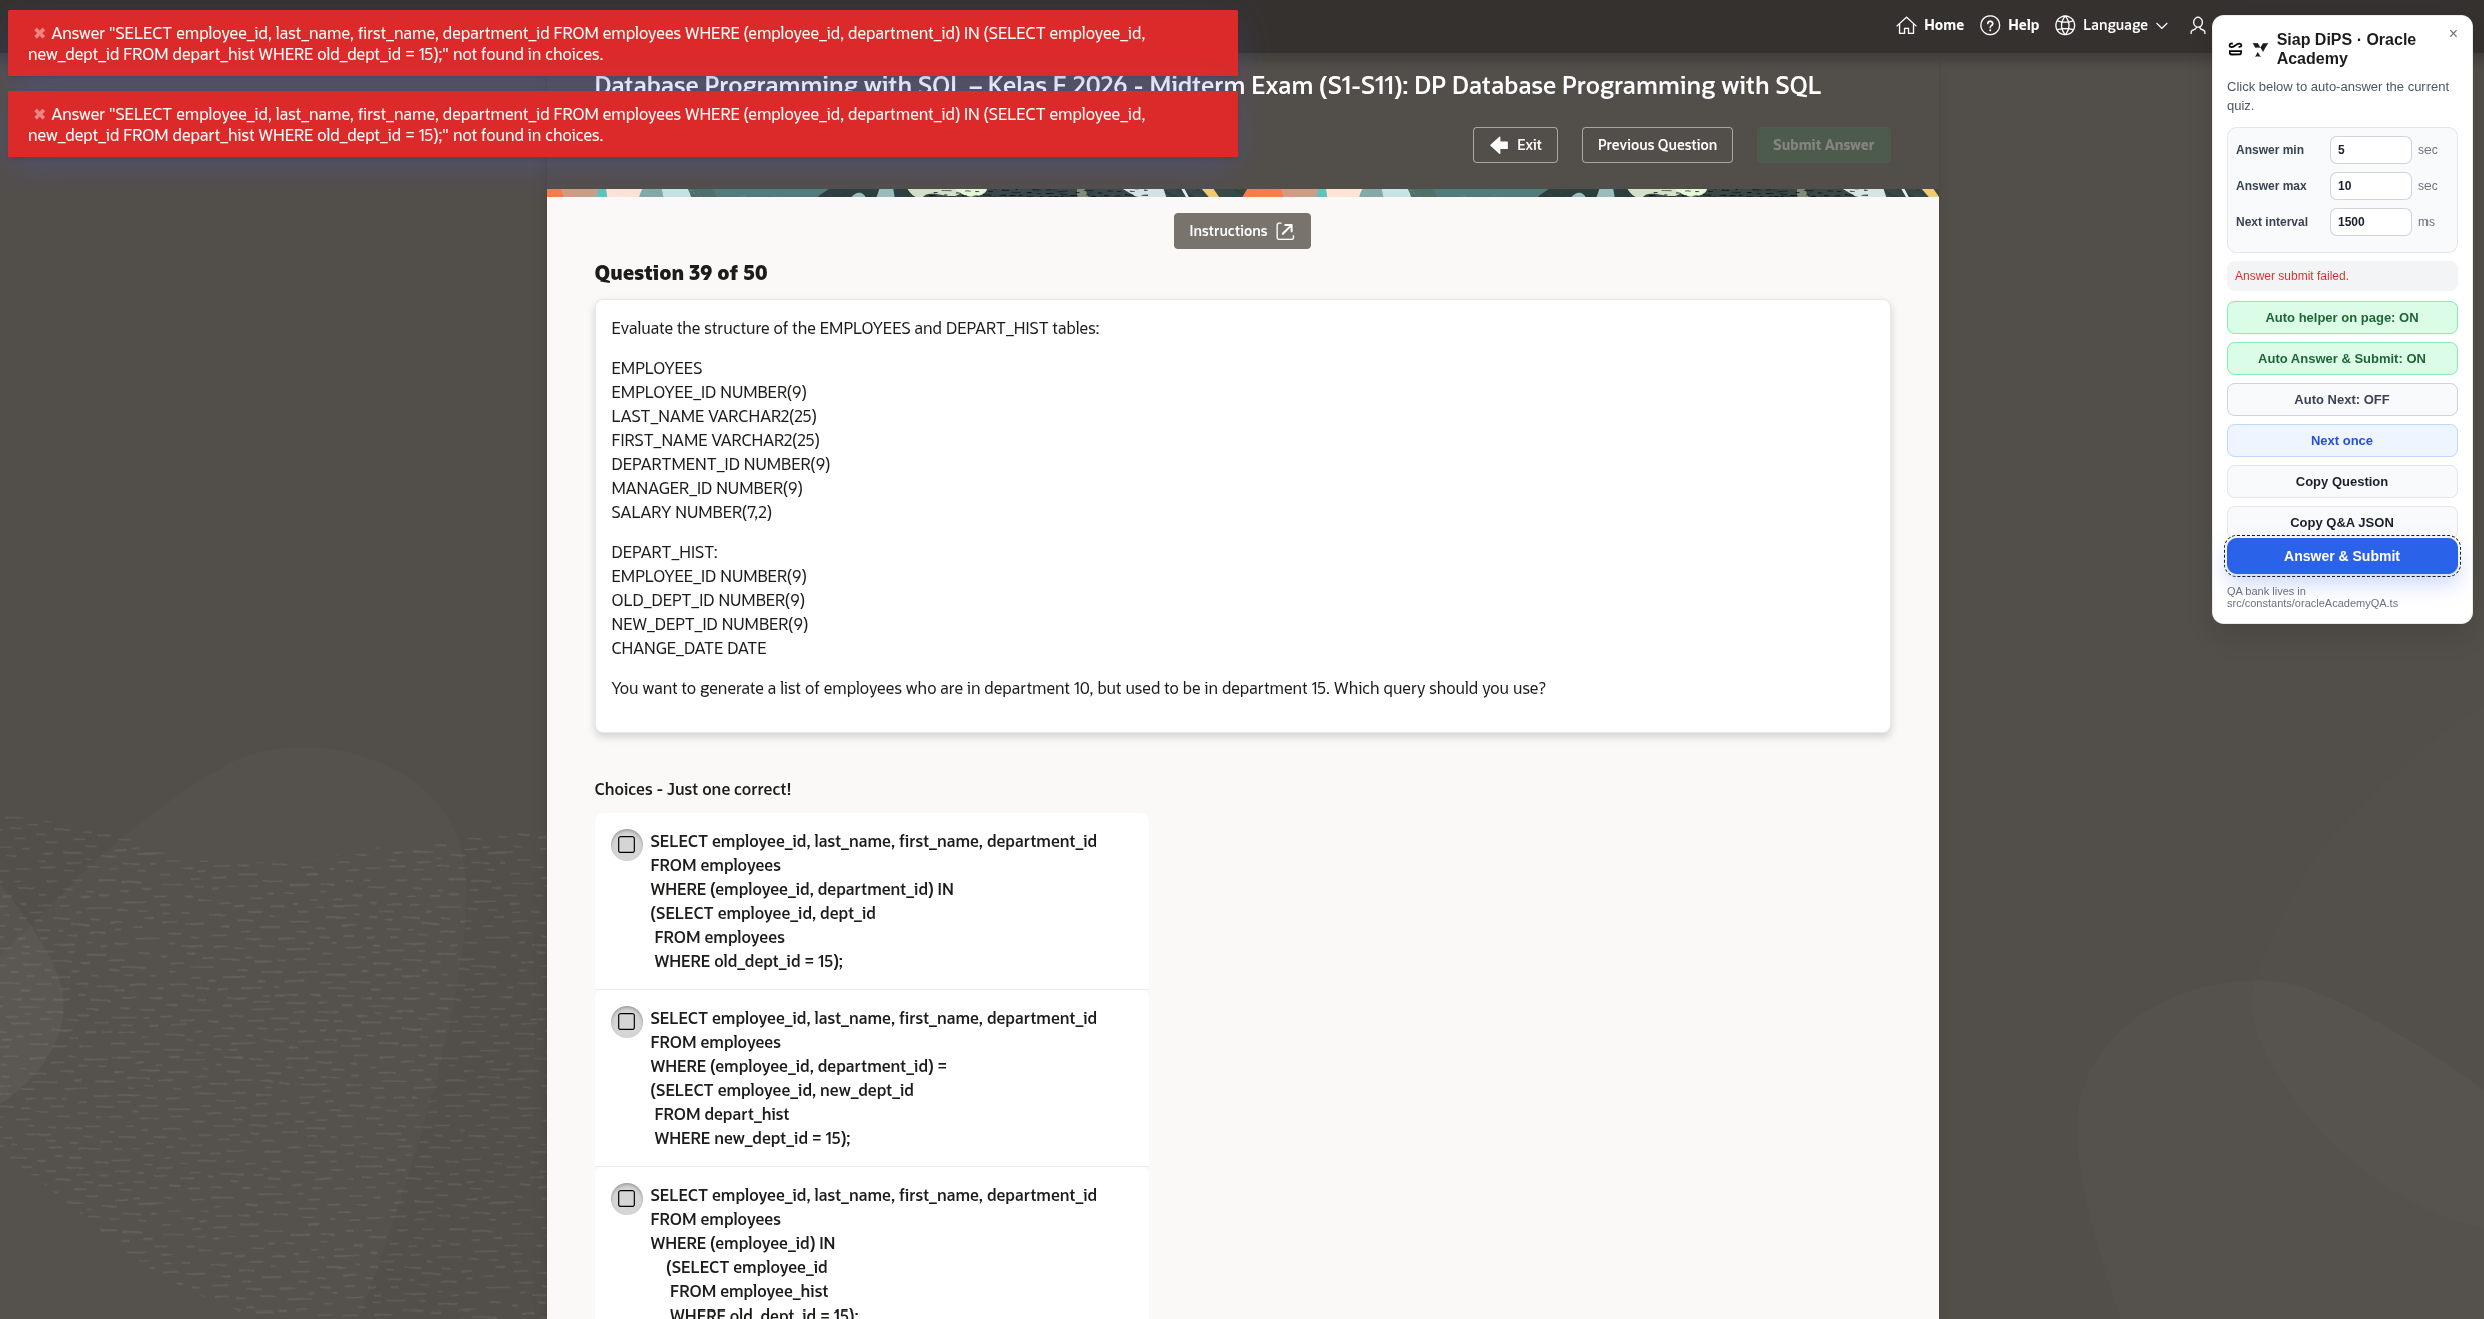
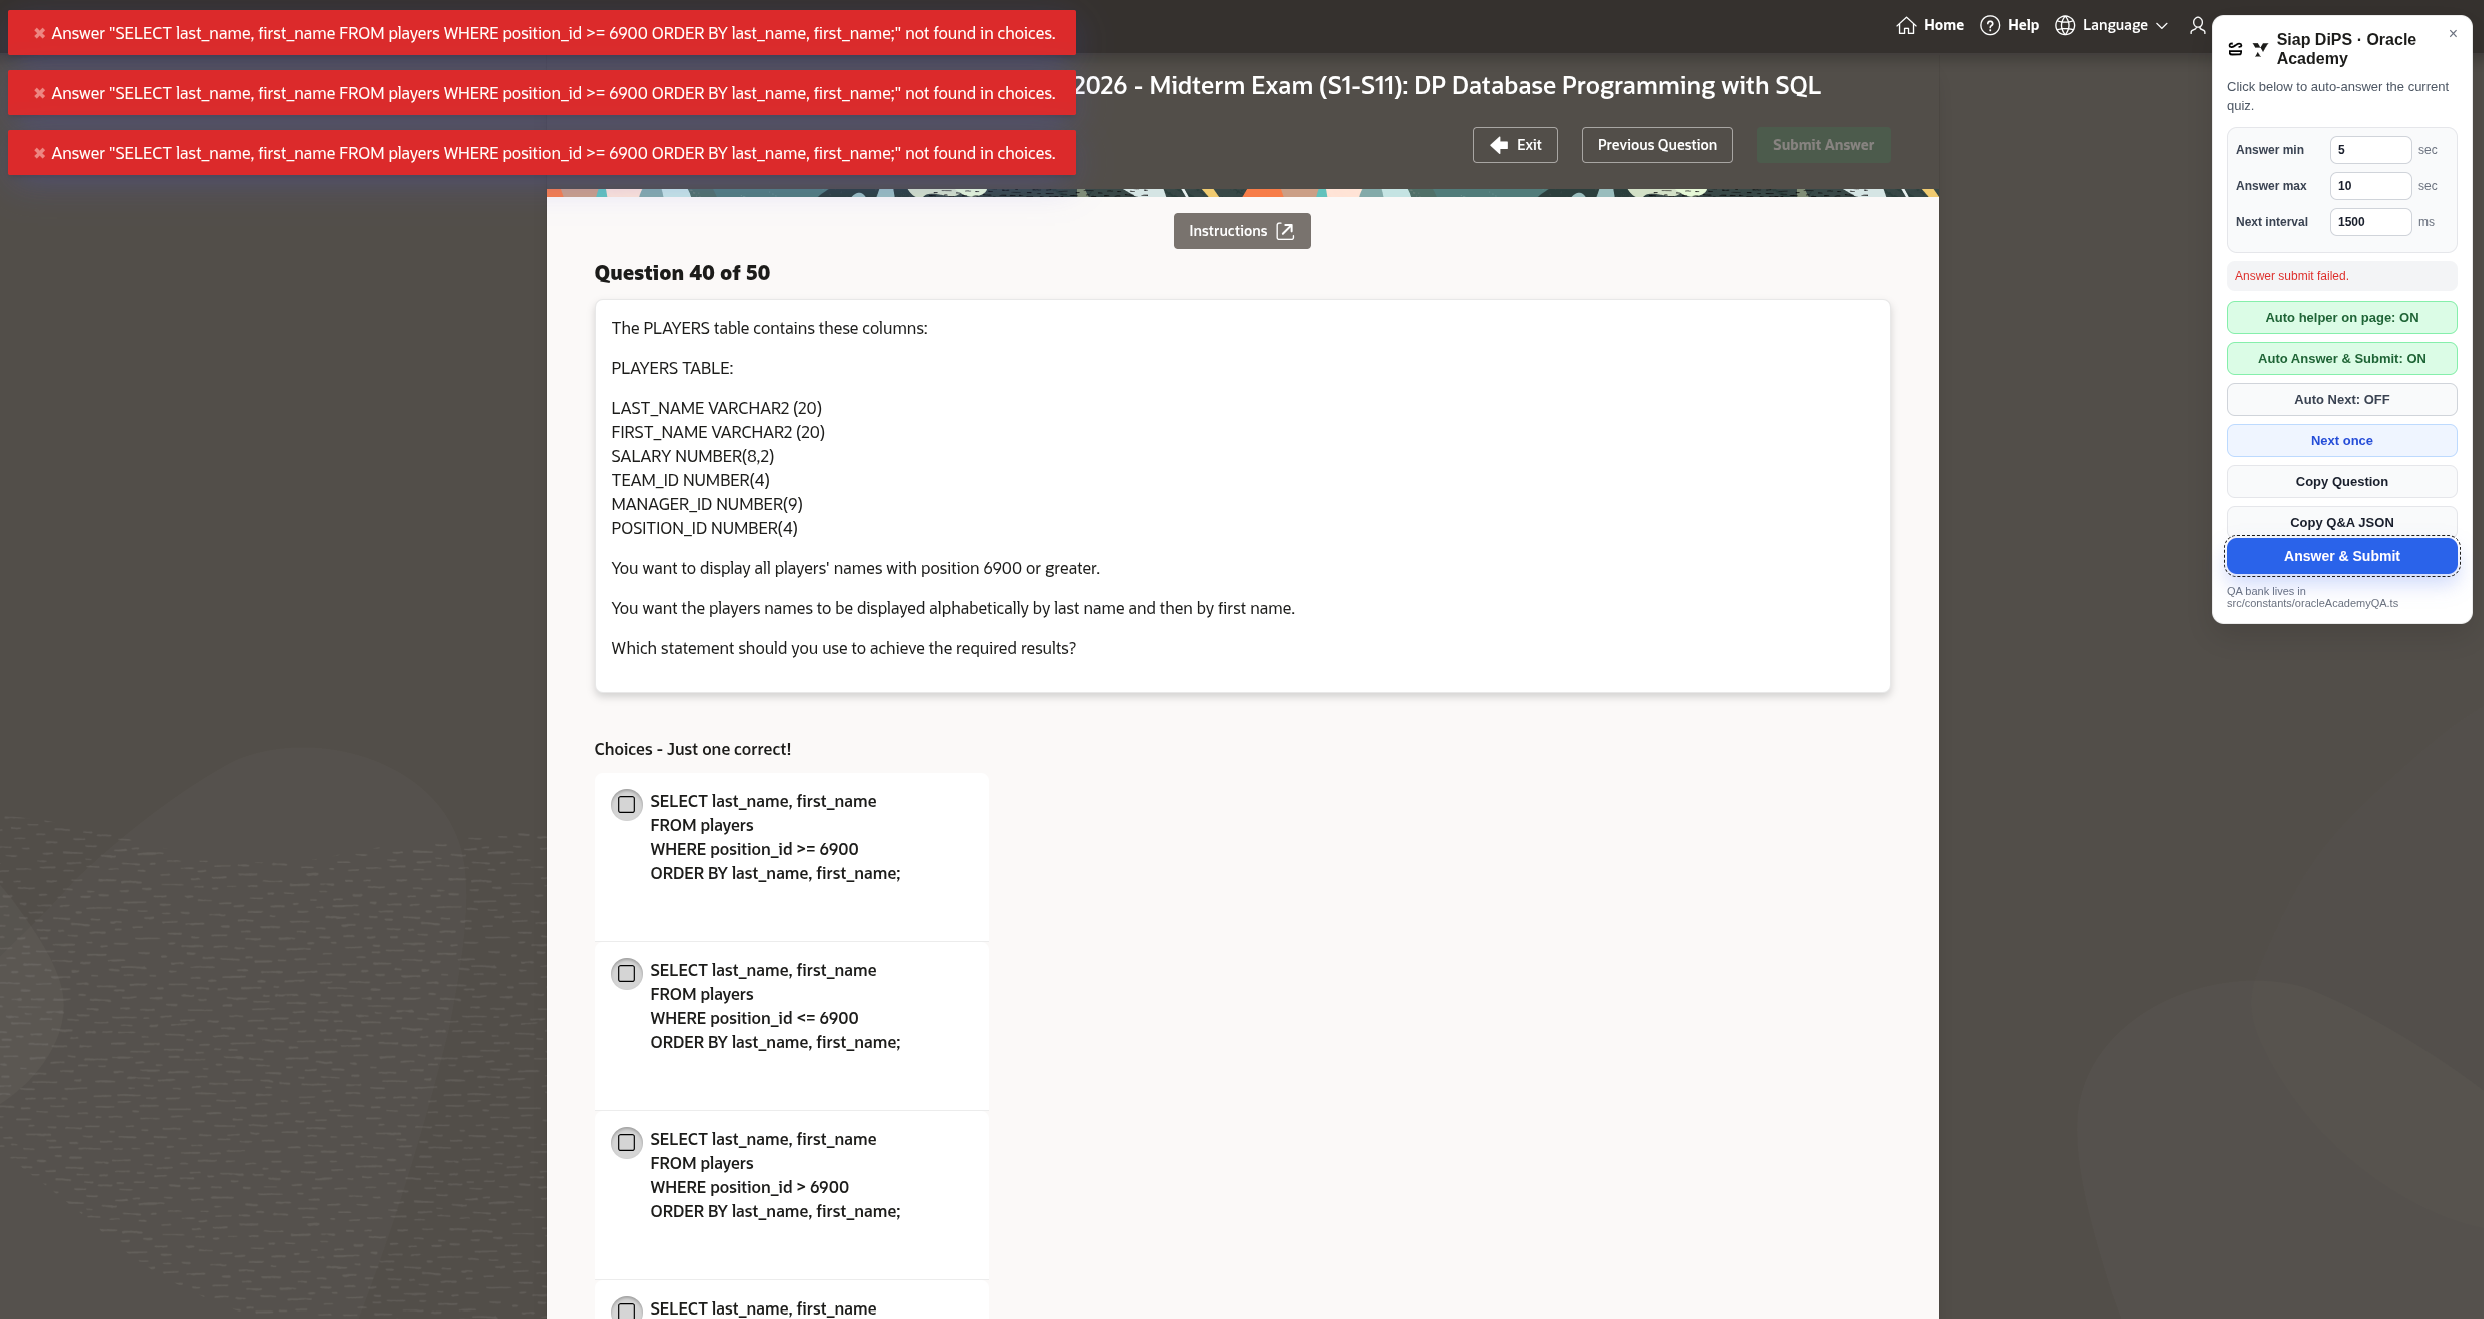
fix(oracle): consolidate duplicate PLAYERS 6900 keys and add dynamic pipeline fallback, bump version to 1.4.993

diff --git a/src/constants/oracleAcademyQA.ts b/src/constants/oracleAcademyQA.ts
@@ -1011,8 +1011,8 @@ export const ORACLE_QA_BANK = {
 		'SELECT last_name, first_name, team_id, salary FROM players WHERE salary BETWEEN 25000 AND 100000 AND team_id BETWEEN 1200 AND 1500 ORDER BY team_id, salary DESC;',
 	'The following statement represents a multi-row function. True or False? SELECT MAX(salary) FROM employees':
 		'True',
-	"The PLAYERS table contains these columns: PLAYERS TABLE: LAST_NAME VARCHAR2 (20) FIRST_NAME VARCHAR2 (20) SALARY NUMBER(8,2) TEAM_ID NUMBER(4) MANAGER_ID NUMBER(9) POSITION_ID NUMBER(4) You want to display all players' names with position 6900 or greater. You want the players names to be displayed alphabetically by last name and then by first name. Which statement should you use to achieve the required results?":
-		'SELECT last_name, first_name FROM players WHERE position_id >= 6900 ORDER BY last_name, first_name;',
+	"You want to display all players' names with position 6900 or greater. You want the players names to be displayed alphabetically by last name and then by first name. Which statement should you use to achieve the required results?":
+		'SELECT last_name, first_name FROM players WHERE position_id >= 6900 ORDER BY last_name, first_name;|position_id >= 6900',
 	'Evaluate this SQL statement: SELECT e.employee_id, e.last_name, e.first_name, m.manager_id FROM employees e, employees m ORDER BY e.last_name, e.first_name WHERE e.employee_id = m.manager_id; This statement fails when executed. Which change will correct the problem?':
 		'Reorder the clauses in the query.',
 	'Which columns can be added to the ORDER BY clause in the following SELECT statement? (Choose Three) SELECT first_name, last_name, salary, hire_date FROM employees WHERE department_id = 50 ORDER BY ?????;':
@@ -1321,8 +1321,7 @@ export const ORACLE_QA_BANK = {
 	'The EMPLOYEES table includes these columns:\nEMPLOYEE_ID NUMBER(4) NOT NULL\nLAST_NAME VARCHAR2(15) NOT NULL\nFIRST_NAME VARCHAR2(10) NOT NULL\nHIRE_DATE DATE NOT NULL\n\nYou want to produce a report that provides the first names, last names and hire dates of those employees who were hired between March 1, 2000, and August 30, 2000. Which statements can you issue to accomplish this task?':
 		'SELECT last_name, first_name, hire_date\nFROM employees\nWHERE hire_date BETWEEN ’01-MAR-00′ AND ’30-AUG-00′;',
 
-	'The PLAYERS table contains these columns:\nPLAYERS TABLE:\nLAST_NAME VARCHAR2 (20)\nFIRST_NAME VARCHAR2 (20)\nSALARY NUMBER(8,2)\nTEAM_ID NUMBER(4)\nMANAGER_ID NUMBER(9)\nPOSITION_ID NUMBER(4)\nYou want to display all players’ names with position 6900 or greater. You want the players names to be displayed alphabetically by last name and then by first name. Which In the real world, databases used by businesses generally have a single table. True or False?statement should you use to achieve the required results?':
-		'SELECT last_name, first_name\nFROM players\nWHERE position_id >= 6900\nORDER BY last_name, first_name;',
+	// duplicate players 6900 key removed
 
 	'Evaluate this SELECT statement:\nSELECT *\nFROM employees\nWHERE salary > 30000\nAND department_id = 10\nOR email IS NOT NULL;\nWhich statement is true?':
 		'The AND condition will be evaluated before the OR condition.',
@@ -1523,8 +1522,7 @@ export const ORACLE_QA_BANK = {
 		'You can use a column alias in the ORDER BY clause.',
 	'Find the clause that will give the same results as:\nSELECT *\nFROM d_cds\nWHERE cd_id NOT IN(90, 91, 92);':
 		'WHERE cd_id != 90 and cd_id != 91 and cd_id != 92;',
-	"The PLAYERS table contains these columns:\nPLAYERS TABLE:\nLAST_NAME VARCHAR2 (20)\nFIRST_NAME VARCHAR2 (20)\nSALARY NUMBER(8,2)\nTEAM_ID NUMBER(4)\nMANAGER_ID NUMBER(9)\nPOSITION_ID NUMBER(4)\n\nYou want to display all players' names with position 6900 or greater.\nYou want the players names to be displayed alphabetically by last name and then by first name.\nWhich statement should you use to achieve the required results?":
-		'SELECT last_name, first_name\nFROM players\nWHERE position_id >= 6900\nORDER BY last_name, first_name;',
+	// duplicate players 6900 key removed
 	'Which of the following are TRUE regarding the logical AND operator?':
 		'TRUE AND FALSE return FALSE',
 	'Which statement about the default sort order is true?':